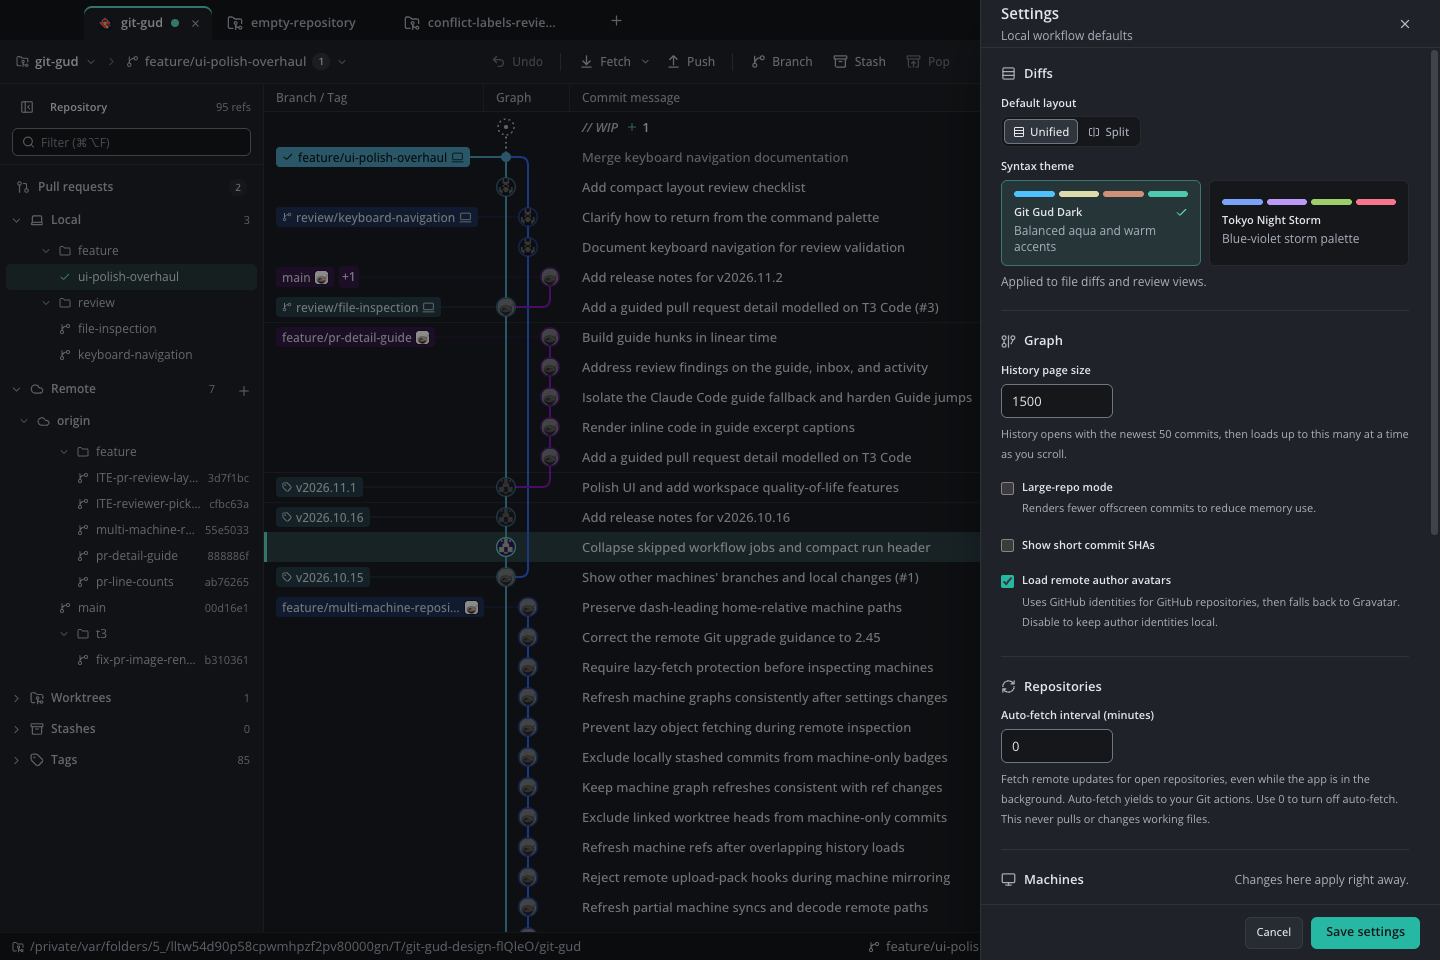
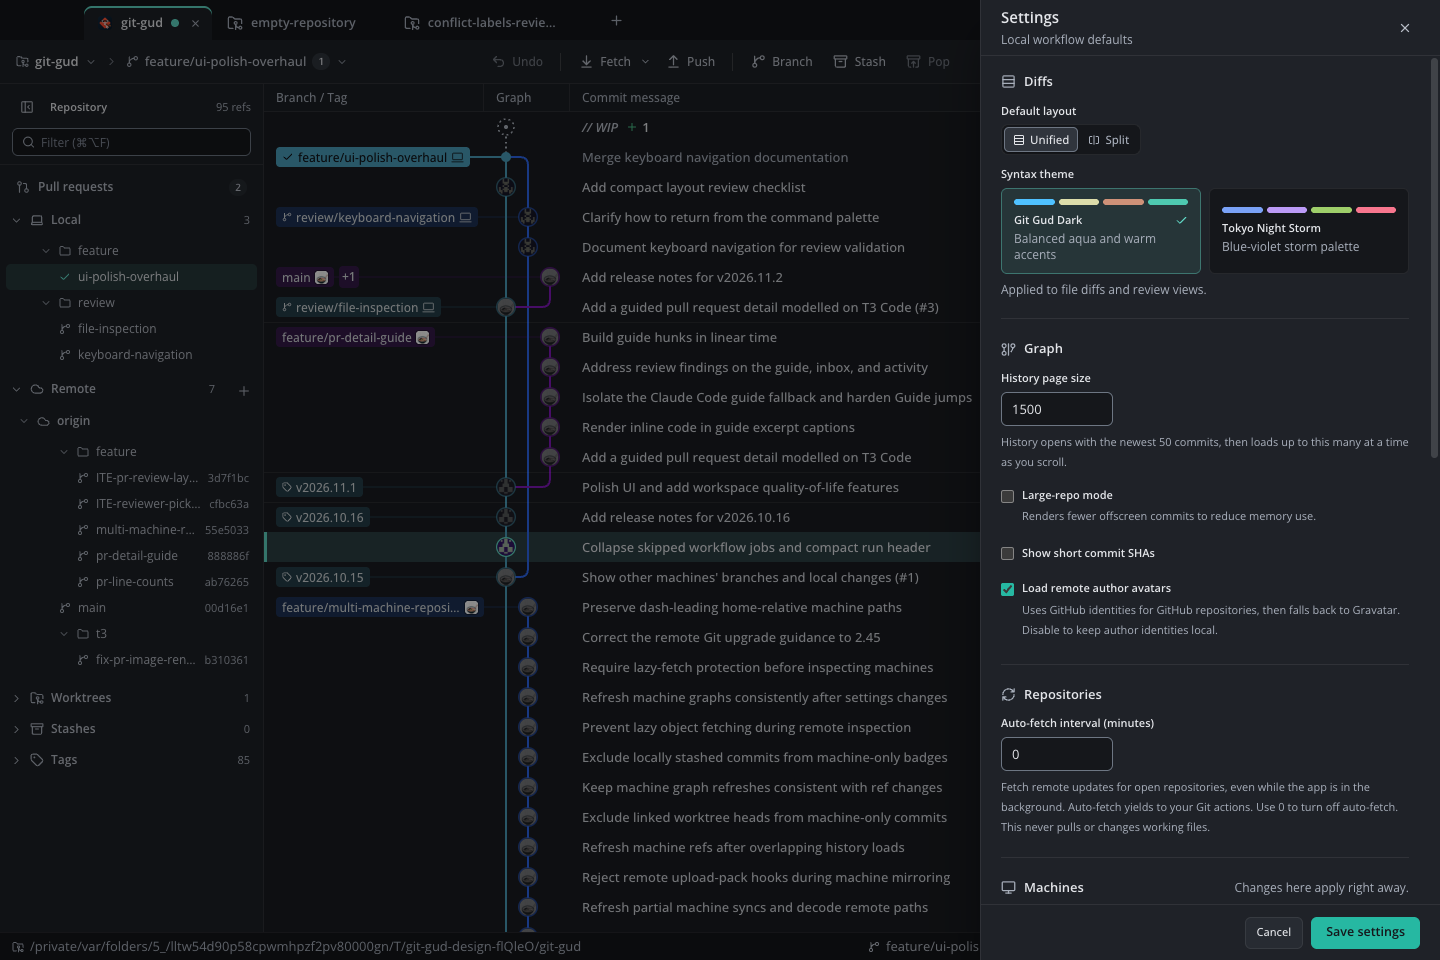
Refine composer and review action hierarchy

diff --git a/src/renderer/src/components/commit/CommitDetailPanel.tsx b/src/renderer/src/components/commit/CommitDetailPanel.tsx
@@ -1,7 +1,7 @@
 import type { KeyboardEvent as ReactKeyboardEvent, MouseEvent, PointerEvent, ReactElement, ReactNode } from 'react';
 import { useEffect, useMemo, useRef, useState } from 'react';
 import { useMutation, useQueryClient } from '@tanstack/react-query';
-import { ContextMenu as ContextMenuPrimitive } from 'radix-ui';
+import { ContextMenu as ContextMenuPrimitive, Tooltip } from 'radix-ui';
 import {
   AlertTriangle,
   Archive,
@@ -820,15 +820,10 @@ function PanelHeader({
         </button>
         <div className="flex min-w-0 flex-1 items-center gap-2">
           {wipDetail ? (
-            <>
-              <span className="shrink-0 whitespace-nowrap font-semibold text-[var(--text-1)]">{formatFileChangeLabel(wipDetail.dirtyCount)} on</span>
-              <span
-                className="min-w-0 truncate rounded bg-[var(--bg-surface)] px-1.5 py-0.5 text-[11px] font-medium text-[var(--text-1)]"
-                title={wipDetail.branch.head}
-              >
-                {wipDetail.branch.head}
-              </span>
-            </>
+            <span className="shrink-0 whitespace-nowrap font-semibold text-[var(--text-1)]" title={wipDetail.branch.head}>
+              {formatFileChangeLabel(wipDetail.dirtyCount)}
+              <span className="sr-only"> on {wipDetail.branch.head}</span>
+            </span>
           ) : (
             <span className="font-semibold text-[var(--text-1)]">File changes</span>
           )}
@@ -1510,6 +1505,9 @@ function WipCommitSection({
         source: 'profile' as const
       }
     : profileState?.effectiveIdentity;
+  const identityName = identity?.name || 'Unknown author';
+  const identityEmail = identity?.email ? `<${identity.email}>` : '';
+  const identitySource = identity?.source ?? 'unknown';
   const canCommit = Boolean(commitMessage.trim()) && (hasStagedFiles || amend) && !isCommitting;
   const summaryLength = commitMessage.split('\n', 1)[0]?.trim().length ?? 0;
   const commitHint = !hasStagedFiles && !amend
@@ -1520,14 +1518,32 @@ function WipCommitSection({
 
   return (
     <div className="shrink-0 space-y-2.5 border-t border-[var(--border)] px-4 py-3.5">
-      <div className="flex items-center justify-between gap-3 text-[11px] text-[var(--text-3)]">
-        <span className="min-w-0 truncate">
-          {identity?.name || 'Unknown author'} {identity?.email ? `<${identity.email}>` : ''}
-        </span>
-        <span className="shrink-0" title={identitySourceTitles[identity?.source ?? 'unknown']}>
-          {identitySourceLabels[identity?.source ?? 'unknown']}
-        </span>
-      </div>
+      <Tooltip.Provider delayDuration={350}>
+        <Tooltip.Root>
+          <Tooltip.Trigger asChild>
+            <div className="commit-identity" role="group" aria-label="Commit author" tabIndex={0}>
+              <span className="commit-identity-author">
+                <span className="commit-identity-name">{identityName}</span>{' '}
+                {identityEmail ? <span className="commit-identity-email">{identityEmail}</span> : null}
+              </span>
+              <span className="shrink-0">{identitySourceLabels[identitySource]}</span>
+            </div>
+          </Tooltip.Trigger>
+          <Tooltip.Portal>
+            <Tooltip.Content
+              className="commit-identity-tooltip"
+              side="top"
+              align="start"
+              sideOffset={7}
+              collisionPadding={12}
+              onEscapeKeyDown={(event) => event.stopPropagation()}
+            >
+              <span>{identityName} {identityEmail}</span>
+              <span>{identitySourceTitles[identitySource]}</span>
+            </Tooltip.Content>
+          </Tooltip.Portal>
+        </Tooltip.Root>
+      </Tooltip.Provider>
       <div className="relative">
         <textarea
           ref={textareaRef}

diff --git a/src/renderer/src/styles/main.css b/src/renderer/src/styles/main.css
@@ -839,6 +839,67 @@ code,
   transform: translateY(0);
 }
 
+.commit-identity {
+  position: relative;
+  z-index: 4;
+  display: flex;
+  align-items: center;
+  justify-content: space-between;
+  gap: 12px;
+  border-radius: 4px;
+  color: var(--text-3);
+  container: commit-identity / inline-size;
+  font-size: var(--text-sm);
+  line-height: 16px;
+}
+
+.commit-identity-author {
+  overflow: hidden;
+  min-width: 0;
+  text-overflow: ellipsis;
+  white-space: nowrap;
+}
+
+.commit-identity-name {
+  color: var(--text-2);
+}
+
+.commit-identity-email {
+  display: none;
+}
+
+@container commit-identity (min-width: 360px) {
+  .commit-identity-email {
+    display: inline;
+  }
+}
+
+/* Portalled so file lists and panel overflow cannot clip the identity. */
+.commit-identity-tooltip {
+  z-index: 60;
+  width: max-content;
+  max-width: min(var(--radix-tooltip-trigger-width), calc(100vw - 24px));
+  padding: 7px 10px;
+  border: 1px solid var(--border-strong);
+  border-radius: 5px;
+  background: var(--bg-popover);
+  color: var(--text-1);
+  box-shadow: var(--shadow-popover);
+  font-size: var(--text-sm);
+  line-height: 16px;
+  overflow-wrap: anywhere;
+}
+
+.commit-identity-tooltip > span {
+  display: block;
+}
+
+.commit-identity-tooltip > span + span {
+  margin-top: 2px;
+  color: var(--text-2);
+  font-weight: 500;
+}
+
 /* --- Toolbar --------------------------------------------------------- */
 
 .app-toolbar {
@@ -2419,7 +2480,7 @@ button.ref-chip {
   display: block;
   height: 80px;
   padding: 8px 44px 8px 10px;
-  font-size: 12px;
+  font-size: var(--text-md);
   line-height: var(--leading-ui);
   resize: none;
 }
@@ -7012,7 +7073,7 @@ button.ref-chip {
   gap: 8px;
   border-bottom: 1px solid var(--border);
   background: var(--bg-graph);
-  padding-right: 8px;
+  padding-right: 4px;
 }
 
 .dashboard-header-navigation {
@@ -7218,7 +7279,8 @@ button.ref-chip {
   display: flex;
   flex-direction: column;
   gap: 8px;
-  padding: 8px;
+  /* 15px per side: the stable 11px scrollbar gutter plus 4px on the right. */
+  padding: 8px 4px 8px 15px;
 }
 
 .dashboard-grid-row {
@@ -7735,11 +7797,8 @@ button.ref-chip {
 
 .workflow-run-row-facts > time {
   flex-shrink: 0;
-}
-
-.workflow-run-row-facts > time::before {
-  margin-right: 8px;
-  content: '·';
+  margin-left: auto;
+  font-variant-numeric: tabular-nums;
 }
 
 .workflow-run-branch {

diff --git a/src/renderer/src/components/settings/SettingsPanel.tsx b/src/renderer/src/components/settings/SettingsPanel.tsx
@@ -78,7 +78,7 @@ export function SettingsPanel({
         className="flex h-full w-full max-w-[460px] flex-col border-l border-[var(--border)] bg-[var(--bg-panel)] shadow-2xl shadow-black/60"
         onSubmit={handleSubmit}
       >
-        <header className="flex min-h-12 items-center gap-3 border-b border-[var(--border)] px-5">
+        <header className="flex min-h-14 items-center gap-3 border-b border-[var(--border)] px-5">
           <div className="min-w-0 flex-1">
             <h2 id={titleId} className="text-[15px] font-semibold text-[var(--text-1)]">Settings</h2>
             <p id={descriptionId} className="mt-0.5 text-[12px] text-[var(--text-3)]">Local workflow defaults</p>

diff --git a/src/renderer/src/components/review/ReviewView.tsx b/src/renderer/src/components/review/ReviewView.tsx
@@ -2390,7 +2390,7 @@ function ReviewBody({
                   <span>{selectedUnit.skippedCount} hidden</span>
                 </div>
                 <button
-                  className="btn-primary btn-regular review-viewed-next"
+                  className="btn-subtle btn-regular review-viewed-next"
                   type="button"
                   disabled={isMutating || lineCollaboration?.selectedChunkId !== undefined}
                   onClick={onToggleViewed}

diff --git a/src/renderer/src/styles/pr-workspace.css b/src/renderer/src/styles/pr-workspace.css
@@ -383,6 +383,10 @@
 .review-viewed-next {
   width: 100%;
   justify-content: center;
+  font-weight: 600;
+}
+.review-viewed-next:not(:disabled) svg {
+  color: var(--accent-2);
 }
 .review-navigation-footer .review-toolbar {
   display: flex;

diff --git a/docs/ui-polish-comparison.md b/docs/ui-polish-comparison.md
@@ -1,23 +1,23 @@
 # Matched screenshot comparison
 
-These eight pairs compare the round-6 application with the current application at the same viewport and 1× capture density. Each PNG is an unchanged capture of the running Electron app. The compact working copy uses 1100×760; the other seven use 1440×960. No screenshots were reconstructed or resampled.
+These eight pairs compare the round-6 application with the round-11 application at the same viewport and 1× capture density. Each PNG is an unchanged capture of the running Electron app. The compact working copy uses 1100×760; the other seven use 1440×960. No screenshots were reconstructed or resampled.
 
 The dates, counts, workflow runs and PR diff content differ between capture dates. Judge layout, visual hierarchy, spacing and legibility with those differences in mind. This is not a controlled usability experiment. Screenshot design and app-wide readiness are separate judgments.
 
-| View | Round 6 | Current |
+| View | Round 6 | Round 11 |
 | --- | --- | --- |
-| History | [History](images/ui-polish-overhaul/comparison-round-6/history.png) | [History](images/ui-polish-overhaul/history.png) |
-| Diff | [Diff](images/ui-polish-overhaul/comparison-round-6/diff.png) | [Diff](images/ui-polish-overhaul/diff.png) |
-| Working copy compact | [Working copy compact](images/ui-polish-overhaul/comparison-round-6/working-copy-compact.png) | [Working copy compact](images/ui-polish-overhaul/working-copy-compact.png) |
-| Start | [Start](images/ui-polish-overhaul/comparison-round-6/start.png) | [Start](images/ui-polish-overhaul/start.png) |
-| Palette | [Palette](images/ui-polish-overhaul/comparison-round-6/palette.png) | [Palette](images/ui-polish-overhaul/palette.png) |
-| Settings | [Settings](images/ui-polish-overhaul/comparison-round-6/settings.png) | [Settings](images/ui-polish-overhaul/settings.png) |
-| Pr code | [Pr code](images/ui-polish-overhaul/comparison-round-6/pr-code.png) | [Pr code](images/ui-polish-overhaul/pr-code.png) |
-| Dashboard | [Dashboard](images/ui-polish-overhaul/comparison-round-6/dashboard.png) | [Dashboard](images/ui-polish-overhaul/dashboard.png) |
+| History | [History](images/ui-polish-overhaul/comparison-round-6/history.png) | [History](https://raw.githubusercontent.com/Kaldy14/git-gud/9bae339/docs/images/ui-polish-overhaul/history.png) |
+| Diff | [Diff](images/ui-polish-overhaul/comparison-round-6/diff.png) | [Diff](https://raw.githubusercontent.com/Kaldy14/git-gud/9bae339/docs/images/ui-polish-overhaul/diff.png) |
+| Working copy compact | [Working copy compact](images/ui-polish-overhaul/comparison-round-6/working-copy-compact.png) | [Working copy compact](https://raw.githubusercontent.com/Kaldy14/git-gud/9bae339/docs/images/ui-polish-overhaul/working-copy-compact.png) |
+| Start | [Start](images/ui-polish-overhaul/comparison-round-6/start.png) | [Start](https://raw.githubusercontent.com/Kaldy14/git-gud/9bae339/docs/images/ui-polish-overhaul/start.png) |
+| Palette | [Palette](images/ui-polish-overhaul/comparison-round-6/palette.png) | [Palette](https://raw.githubusercontent.com/Kaldy14/git-gud/9bae339/docs/images/ui-polish-overhaul/palette.png) |
+| Settings | [Settings](images/ui-polish-overhaul/comparison-round-6/settings.png) | [Settings](https://raw.githubusercontent.com/Kaldy14/git-gud/9bae339/docs/images/ui-polish-overhaul/settings.png) |
+| Pr code | [Pr code](images/ui-polish-overhaul/comparison-round-6/pr-code.png) | [Pr code](https://raw.githubusercontent.com/Kaldy14/git-gud/9bae339/docs/images/ui-polish-overhaul/pr-code.png) |
+| Dashboard | [Dashboard](images/ui-polish-overhaul/comparison-round-6/dashboard.png) | [Dashboard](https://raw.githubusercontent.com/Kaldy14/git-gud/9bae339/docs/images/ui-polish-overhaul/dashboard.png) |
 
-Round 6 was captured from `f5eb1ab`. Current captures include the small follow-up corrections to `eb33dfe`. The current compact workspace uses the navigation rail and the PR workspace uses the shorter shared header. Wide history retains the earlier graphite palette and type scale.
+Round 6 was captured from `f5eb1ab`. Round-11 captures are fixed at `9bae339` and include the small follow-up corrections to `eb33dfe`. The round-11 compact workspace uses the navigation rail and the PR workspace uses the shorter shared header. Wide history retains the earlier graphite palette and type scale.
 
-![Current history](images/ui-polish-overhaul/history.png)
+![Round-11 history](https://raw.githubusercontent.com/Kaldy14/git-gud/9bae339/docs/images/ui-polish-overhaul/history.png)
 
 ![Round-6 history](images/ui-polish-overhaul/comparison-round-6/history.png)
 

diff --git a/docs/ui-polish-validation.md b/docs/ui-polish-validation.md
@@ -2,6 +2,28 @@
 
 These are unmodified screenshots of the running Git Gud Electron application. They show real Git history, local staging, an empty repository, a failed local clone, and read-only views of GitHub PR #4 and its workflow runs. Settings and repositories used for validation are isolated from the normal desktop workspace.
 
+## Bounded craft pass
+
+Round 12 preserves the established palette, type scale, graph and responsive workspace. The WIP heading now shows its file count without a duplicate clipped branch. Author name and identity source use 12px; the full name, email and source explanation appear in the existing Radix tooltip primitive, with keyboard focus, pointer hover, Escape dismissal and collision handling. Inline email appears when the identity row is at least 360px wide. The commit summary uses 13px in the existing 80px field.
+
+While reading PR Code, Review retains the filled header action and Viewed & next uses a subtle 32px button with an enabled teal icon. Its disabled state stays clear during composition. Local review retains its existing primary action. Dashboard tiles measure 15px from either window edge; the single run timestamp forms a right-aligned scan column. Settings gets a 56px header.
+
+`pnpm lint`, `pnpm build` including typecheck, and `pnpm exec vitest run src/renderer` pass, with 97 files and 631 renderer tests. `TMPDIR=/private/tmp pnpm test` passes with 172 files, 1,366 tests and 4 skipped. The heuristic structure scan reports existing large source files and generated bundles; it is not a correctness check.
+
+The actual Electron renderer passes 21 core checks, 17 integration checks and 17 focused craft checks. The focused pass verifies tooltip bounds, hover persistence, Escape dismissal, keyboard focus order, the editor node/text/caret through staging, draft retention through unstaging and Amend, inline email at a wider panel, disabled PR navigation, and balanced dashboard edges without horizontal overflow. Caret ranges are set with the DOM selection API for controlled insertion and cleanup; actual editing and staging use app controls. No commit or review was submitted. The wide-email diagnostic uses 1600×960 because a 1440px window's panel cap leaves the identity below its email breakpoint. The eight primary grading views remain 1440×960 or 1100×760 at 1× density.
+
+Focused commands:
+
+```sh
+node /tmp/git-gud-polish-e2e-v12.mjs
+node /tmp/git-gud-polish-broad-r12.mjs
+node /tmp/git-gud-polish-craft-r12.mjs
+```
+
+[Focused identity at compact width](images/ui-polish-overhaul/commit-identity-focus-compact.png), [wide inline identity](images/ui-polish-overhaul/commit-identity-wide.png), [disabled PR action during composition](images/ui-polish-overhaul/pr-action-disabled-compact.png), and [compact dashboard](images/ui-polish-overhaul/dashboard-compact.png) are original running-app captures. Reports, scripts and capture hashes remain under `artifacts/ui-polish/round-12/` and `artifacts/ui-polish/fixed-comparison-v12/`. No unexpected renderer or console errors were recorded. Network capture does not certify IPC/CLI traffic. Screen readers, other OS chrome, populated Guide output and live remote write flows remain untested.
+
+The eight current primary gallery captures are from this craft pass. The matched round-6 versus round-11 gallery uses immutable round-11 image links; its historical evidence has not been replaced with newer images. Other gallery images retain their stated earlier provenance.
+
 ## Inbox badge follow-up
 
 The round-11 review found an empty pill in the docked Pull requests row when no count was available. The badge now renders only for a known count; a genuine zero remains visible. Seven focused sidebar tests, scoped ESLint and the build including typecheck pass. Three actual-app checks verify the unavailable docked row, unavailable flyout row and recovered real count. The controlled local IPC failure uses the same isolated profile as the prior pass. No renderer or console errors were recorded.

diff --git a/DESIGN.md b/DESIGN.md
@@ -135,3 +135,9 @@
 - A loading PR count is unknown: show the spinner with a reserved blank count and announce loading.
 
 - On short PR panes the grouping explanation and position share a footer row, shortcut hints give way, and the block list keeps more height. Aggregate healthy status is neutral; current run/PR outcomes carry the status colour. Panel rails use matching open-panel icons.
+- Review is the one solid teal action in PR Code. Viewed & next is a subtle, semibold button with a teal icon that loses its colour when disabled; local review keeps its primary Viewed action.
+
+### Composer and dashboard edges
+
+- The WIP header shows the file count; the branch stays in its title and accessible text. The composer shows the author name and identity source at 12px, adds the email inline when the row is at least 360px wide, and gives the full identity and source explanation in a tooltip on hover and keyboard focus. Commit summaries use 13px type.
+- Dashboard tiles sit 15px from both window edges, counting the 11px scrollbar gutter on the right. Run times stay on the facts line, right-aligned beside the chevron.
